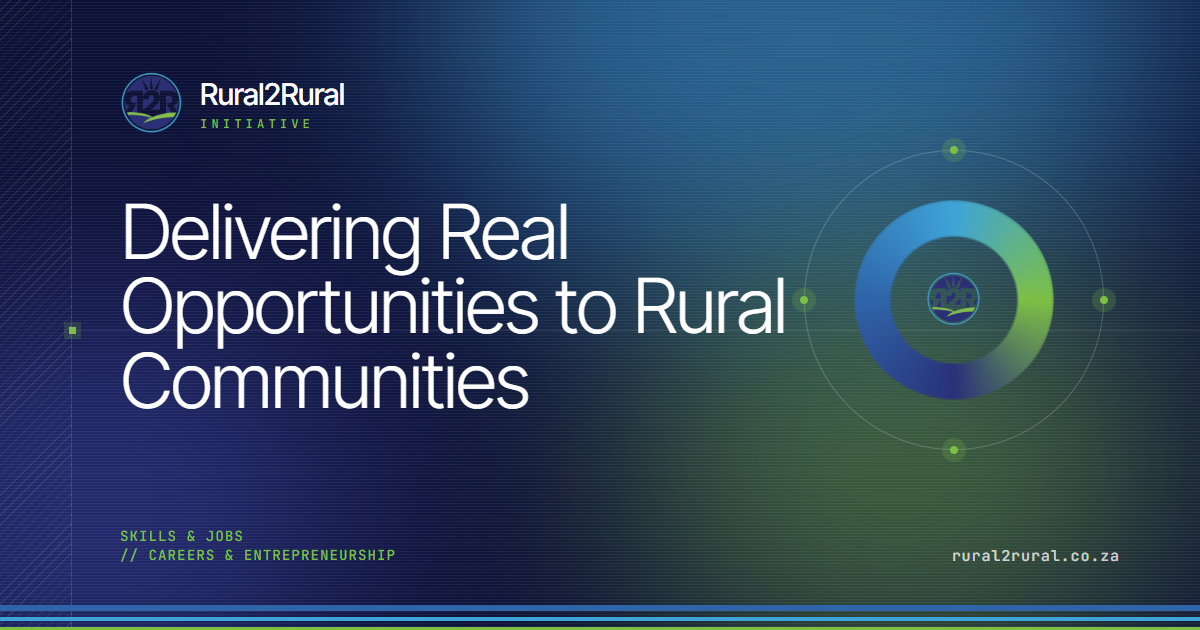
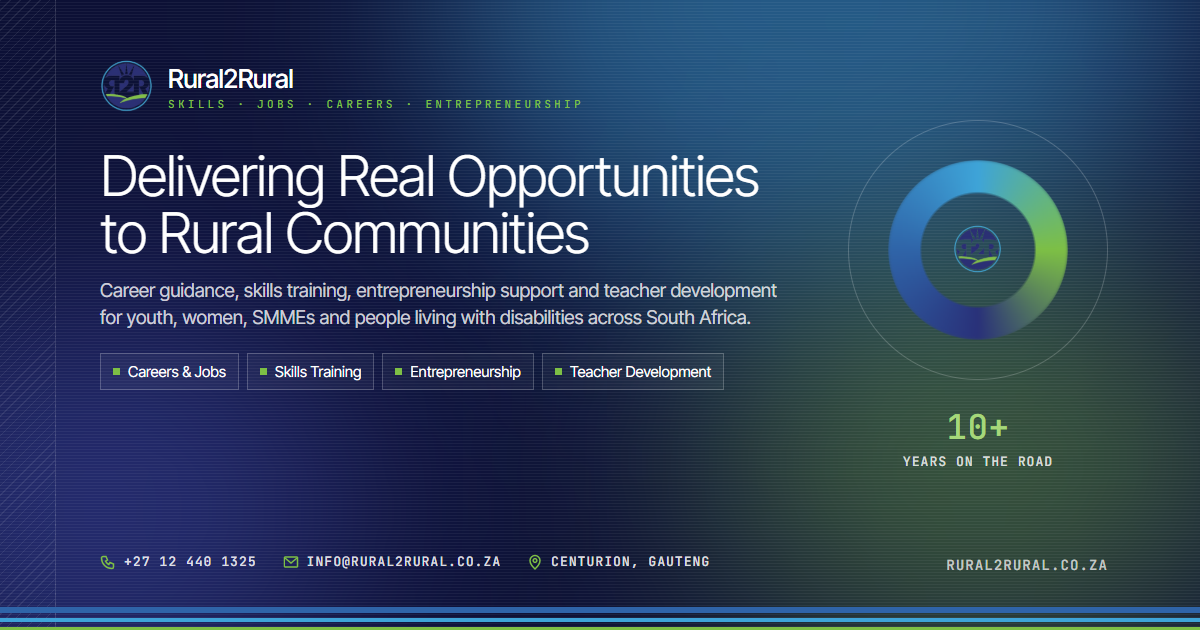
Richer social share previews and structured data
- Detailed 1200x630 share image: pillars, audience, 10+ years, phone,
  email and location; plus a square logo image for apps that crop
- Fuller description and share title from config('rural2rural.seo')
- Facebook business contact tags (address, email, phone, website)
- schema.org NGO JSON-LD for Google (logo, address, contact points,
  socials, programme areas)
- Cache-busted image URLs so WhatsApp/Facebook pick up new images
- Head meta extracted into an x-seo component; tests cover the tags

diff --git a/resources/views/components/seo.blade.php b/resources/views/components/seo.blade.php
@@ -1,0 +1,95 @@
+{{--
+    Page title, search meta, Open Graph / Facebook business tags, Twitter card
+    and schema.org NGO data — all driven by config('rural2rural').
+--}}
+@php
+    $site = config('rural2rural');
+    $seo = $site['seo'];
+    $contact = $site['contact'];
+    $postal = $contact['postal'];
+    $homeUrl = route('home');
+
+    $versioned = fn (string $path): string => asset($path).'?v='.(file_exists(public_path($path)) ? filemtime(public_path($path)) : '1');
+    $shareImage = $versioned('images/og/rural2rural-og.png');
+    $squareImage = $versioned('images/og/rural2rural-square.png');
+    $imageAlt = 'Rural2Rural — '.$seo['slogan'].'. Careers & jobs, skills training, entrepreneurship and teacher development across rural South Africa.';
+
+    $organisation = [
+        '@context' => 'https://schema.org',
+        '@type' => 'NGO',
+        '@id' => $homeUrl.'#organization',
+        'name' => 'Rural2Rural',
+        'alternateName' => ['R2R', 'Rural2Rural Skills, Jobs, Careers & Entrepreneurship Initiative'],
+        'url' => $homeUrl,
+        'logo' => asset('images/rural2rural.png'),
+        'image' => $shareImage,
+        'description' => $seo['description'],
+        'slogan' => $seo['slogan'],
+        'email' => $contact['email'],
+        'telephone' => $contact['phone'],
+        'address' => [
+            '@type' => 'PostalAddress',
+            'streetAddress' => $postal['street_address'],
+            'addressLocality' => $postal['locality'],
+            'addressRegion' => $postal['region'],
+            'postalCode' => $postal['postal_code'],
+            'addressCountry' => $postal['country_code'],
+        ],
+        'contactPoint' => [
+            ['@type' => 'ContactPoint', 'contactType' => 'general enquiries', 'telephone' => $contact['phone'], 'email' => $contact['email'], 'areaServed' => $postal['country_code'], 'availableLanguage' => ['English']],
+            ['@type' => 'ContactPoint', 'contactType' => 'mobile', 'telephone' => $contact['mobile'], 'areaServed' => $postal['country_code']],
+        ],
+        'areaServed' => ['@type' => 'Country', 'name' => $postal['country_name']],
+        'knowsAbout' => collect($site['pillars'])->pluck('title')->all(),
+        'sameAs' => array_values($site['social']),
+    ];
+@endphp
+
+<title>{{ $seo['title'] }}</title>
+<meta name="description" content="{{ $seo['description'] }}">
+<meta name="keywords" content="{{ $seo['keywords'] }}">
+<meta name="author" content="Rural2Rural">
+<meta name="robots" content="index, follow, max-image-preview:large">
+<link rel="canonical" href="{{ $homeUrl }}">
+<link rel="apple-touch-icon" href="{{ asset('images/r2r/mark.png') }}">
+
+{{-- Open Graph (WhatsApp, Facebook, LinkedIn, Slack, Teams) --}}
+<meta property="og:type" content="business.business">
+<meta property="og:site_name" content="Rural2Rural">
+<meta property="og:locale" content="en_ZA">
+<meta property="og:url" content="{{ $homeUrl }}">
+<meta property="og:title" content="{{ $seo['share_title'] }}">
+<meta property="og:description" content="{{ $seo['description'] }}">
+<meta property="og:image" content="{{ $shareImage }}">
+<meta property="og:image:secure_url" content="{{ $shareImage }}">
+<meta property="og:image:type" content="image/png">
+<meta property="og:image:width" content="1200">
+<meta property="og:image:height" content="630">
+<meta property="og:image:alt" content="{{ $imageAlt }}">
+<meta property="og:image" content="{{ $squareImage }}">
+<meta property="og:image:secure_url" content="{{ $squareImage }}">
+<meta property="og:image:type" content="image/png">
+<meta property="og:image:width" content="600">
+<meta property="og:image:height" content="600">
+<meta property="og:image:alt" content="Rural2Rural logo">
+
+{{-- Facebook business contact details --}}
+<meta property="business:contact_data:street_address" content="{{ $postal['street_address'] }}">
+<meta property="business:contact_data:locality" content="{{ $postal['locality'] }}">
+<meta property="business:contact_data:region" content="{{ $postal['region'] }}">
+<meta property="business:contact_data:postal_code" content="{{ $postal['postal_code'] }}">
+<meta property="business:contact_data:country_name" content="{{ $postal['country_name'] }}">
+<meta property="business:contact_data:email" content="{{ $contact['email'] }}">
+<meta property="business:contact_data:phone_number" content="{{ $contact['phone'] }}">
+<meta property="business:contact_data:website" content="{{ $homeUrl }}">
+
+{{-- X / Twitter --}}
+<meta name="twitter:card" content="summary_large_image">
+<meta name="twitter:site" content="@Rural2Rural">
+<meta name="twitter:title" content="{{ $seo['share_title'] }}">
+<meta name="twitter:description" content="{{ $seo['description'] }}">
+<meta name="twitter:image" content="{{ $shareImage }}">
+<meta name="twitter:image:alt" content="{{ $imageAlt }}">
+
+{{-- Search engines (Google knowledge panel / rich results) --}}
+<script type="application/ld+json">{!! json_encode($organisation, JSON_UNESCAPED_SLASHES | JSON_UNESCAPED_UNICODE | JSON_HEX_TAG) !!}</script>

diff --git a/resources/views/welcome.blade.php b/resources/views/welcome.blade.php
@@ -4,36 +4,7 @@
         <meta charset="utf-8">
         <meta name="viewport" content="width=device-width, initial-scale=1">
 
-        @php
-            $pageTitle = config('app.name', 'Rural2Rural').' — Delivering Real Opportunities to Rural Communities';
-            $pageDescription = 'Rural2Rural Skills, Jobs, Careers and Entrepreneurship Initiative travels across rural South Africa educating, training, exposing and advising youth, women, small businesses and people living with disabilities.';
-            $shareImage = asset('images/og/rural2rural-og.png');
-        @endphp
-        <title>{{ $pageTitle }}</title>
-        <meta name="description" content="{{ $pageDescription }}">
-        <link rel="canonical" href="{{ route('home') }}">
-
-        {{-- Open Graph (Facebook, WhatsApp, LinkedIn) --}}
-        <meta property="og:type" content="website">
-        <meta property="og:site_name" content="Rural2Rural">
-        <meta property="og:locale" content="en_ZA">
-        <meta property="og:url" content="{{ route('home') }}">
-        <meta property="og:title" content="{{ $pageTitle }}">
-        <meta property="og:description" content="{{ $pageDescription }}">
-        <meta property="og:image" content="{{ $shareImage }}">
-        <meta property="og:image:secure_url" content="{{ $shareImage }}">
-        <meta property="og:image:type" content="image/png">
-        <meta property="og:image:width" content="1200">
-        <meta property="og:image:height" content="630">
-        <meta property="og:image:alt" content="Rural2Rural — Delivering real opportunities to rural communities across South Africa">
-
-        {{-- X / Twitter --}}
-        <meta name="twitter:card" content="summary_large_image">
-        <meta name="twitter:site" content="@Rural2Rural">
-        <meta name="twitter:title" content="{{ $pageTitle }}">
-        <meta name="twitter:description" content="{{ $pageDescription }}">
-        <meta name="twitter:image" content="{{ $shareImage }}">
-        <meta name="twitter:image:alt" content="Rural2Rural — Delivering real opportunities to rural communities across South Africa">
+        <x-seo />
         <meta name="theme-color" content="#0c1035">
         <meta name="csrf-token" content="{{ csrf_token() }}">
         <link rel="icon" type="image/png" href="{{ asset('images/r2r/mark.png') }}">

diff --git a/tests/Feature/HomePageSeoTest.php b/tests/Feature/HomePageSeoTest.php
@@ -1,0 +1,31 @@
+<?php
+
+test('the home page has a rich social share preview', function () {
+    $this->get(route('home'))
+        ->assertOk()
+        ->assertSee('<meta property="og:type" content="business.business">', false)
+        ->assertSee('<meta property="og:title" content="Rural2Rural (R2R) | Skills, Jobs, Careers &amp; Entrepreneurship Initiative">', false)
+        ->assertSee('property="og:description" content="Rural2Rural (R2R) travels across rural South Africa', false)
+        ->assertSee('images/og/rural2rural-og.png?v=', false)
+        ->assertSee('<meta property="og:image:width" content="1200">', false)
+        ->assertSee('images/og/rural2rural-square.png?v=', false)
+        ->assertSee('<meta property="business:contact_data:email" content="info@rural2rural.co.za">', false)
+        ->assertSee('<meta property="business:contact_data:phone_number" content="+27 12 440 1325">', false)
+        ->assertSee('<meta name="twitter:card" content="summary_large_image">', false);
+});
+
+test('the home page publishes schema.org organisation data', function () {
+    $html = $this->get(route('home'))->assertOk()->getContent();
+
+    preg_match('#<script type="application/ld\+json">(.+?)</script>#s', $html, $matches);
+    $organisation = json_decode($matches[1] ?? '', true);
+
+    expect($organisation)
+        ->toBeArray()
+        ->and($organisation['@type'])->toBe('NGO')
+        ->and($organisation['name'])->toBe('Rural2Rural')
+        ->and($organisation['email'])->toBe('info@rural2rural.co.za')
+        ->and($organisation['address']['addressLocality'])->toBe('Centurion')
+        ->and($organisation['sameAs'])->toContain('https://www.facebook.com/rural2rural')
+        ->and($organisation['knowsAbout'])->toContain('Teacher Development Programmes');
+});

diff --git a/config/rural2rural.php b/config/rural2rural.php
@@ -38,6 +38,32 @@ return [
             'Pretoria, South Africa',
             '0163',
         ],
+        'postal' => [
+            'street_address' => 'Corporate Park 66, 66 Von Willich Ave, Die Hoewes',
+            'locality' => 'Centurion',
+            'region' => 'Gauteng',
+            'postal_code' => '0163',
+            'country_name' => 'South Africa',
+            'country_code' => 'ZA',
+        ],
+    ],
+
+    /*
+    |--------------------------------------------------------------------------
+    | Search & Social Sharing
+    |--------------------------------------------------------------------------
+    |
+    | Used for the page title, meta description, Open Graph / Twitter cards
+    | and schema.org structured data.
+    |
+    */
+
+    'seo' => [
+        'title' => 'Rural2Rural — Delivering Real Opportunities to Rural Communities',
+        'share_title' => 'Rural2Rural (R2R) | Skills, Jobs, Careers & Entrepreneurship Initiative',
+        'description' => 'Rural2Rural (R2R) travels across rural South Africa delivering career guidance, skills training, entrepreneurship support and teacher development to youth, women, small businesses and people living with disabilities. 10+ years on the road. Based in Centurion, Gauteng.',
+        'slogan' => 'Delivering real opportunities to rural communities',
+        'keywords' => 'Rural2Rural, R2R, rural development South Africa, career guidance, skills development, youth employment, entrepreneurship, SMME support, teacher development, career expo',
     ],
 
     /*
